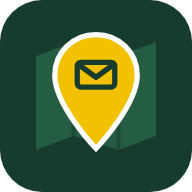
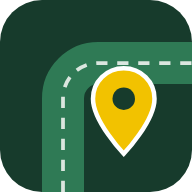
App heißt jetzt Around the Corner, neues Symbol
Claude-Session: https://claude.ai/code/session_01Uv14joGn53uj3dA2SAyzed

diff --git a/index.html b/index.html
@@ -3,13 +3,14 @@
 <head>
   <meta charset="utf-8">
   <meta name="viewport" content="width=device-width, initial-scale=1, viewport-fit=cover, user-scalable=no">
-  <title>Analoge Orte</title>
-  <meta name="description" content="Briefkästen, Glascontainer, Toiletten und mehr auf einer Karte – mit Leerungs- und Öffnungszeiten.">
+  <title>Around the Corner</title>
+  <meta name="description" content="Around the Corner: Briefkästen, Container, Toiletten, Paketstationen und mehr auf einer Karte – mit Leerungs- und Öffnungszeiten.">
   <meta name="theme-color" content="#173B2C">
   <link rel="manifest" href="manifest.webmanifest">
   <link rel="icon" href="icons/icon.svg" type="image/svg+xml">
   <link rel="apple-touch-icon" href="icons/icon-192.png">
   <meta name="apple-mobile-web-app-capable" content="yes">
+  <meta name="apple-mobile-web-app-title" content="Around the Corner">
   <meta name="apple-mobile-web-app-status-bar-style" content="black-translucent">
   <link rel="stylesheet" href="vendor/maplibre-gl.css">
   <link rel="stylesheet" href="styles.css">
@@ -22,7 +23,7 @@
       <span class="logo" aria-hidden="true"></span>
       <div class="loc-text">
         <div class="over" id="loc-over">Kartenmitte</div>
-        <div class="title" id="loc-name">Analoge Orte</div>
+        <div class="title" id="loc-name">Around the Corner</div>
       </div>
       <div class="stand" id="stand"></div>
     </div>

diff --git a/sw.js b/sw.js
@@ -1,5 +1,5 @@
 // Service Worker: App offline startfähig, Daten immer zuerst frisch aus dem Netz.
-const VERSION = 'v2';
+const VERSION = 'v3';
 const SHELL = [
   './', 'index.html', 'styles.css', 'manifest.webmanifest',
   'src/app.js', 'src/categories.js', 'src/hours.js',

diff --git a/README.md b/README.md
@@ -1,4 +1,4 @@
-# Analoge Orte
+# Around the Corner
 
 Karten-App für die „analoge Welt“: Briefkästen (mit Leerungszeiten), Glas-, Papier- und Altkleidercontainer, öffentliche Toiletten, Autobahn-Rastplätze, Packstationen, Geldautomaten und Ladesäulen – mit Route in Google Maps.
 
